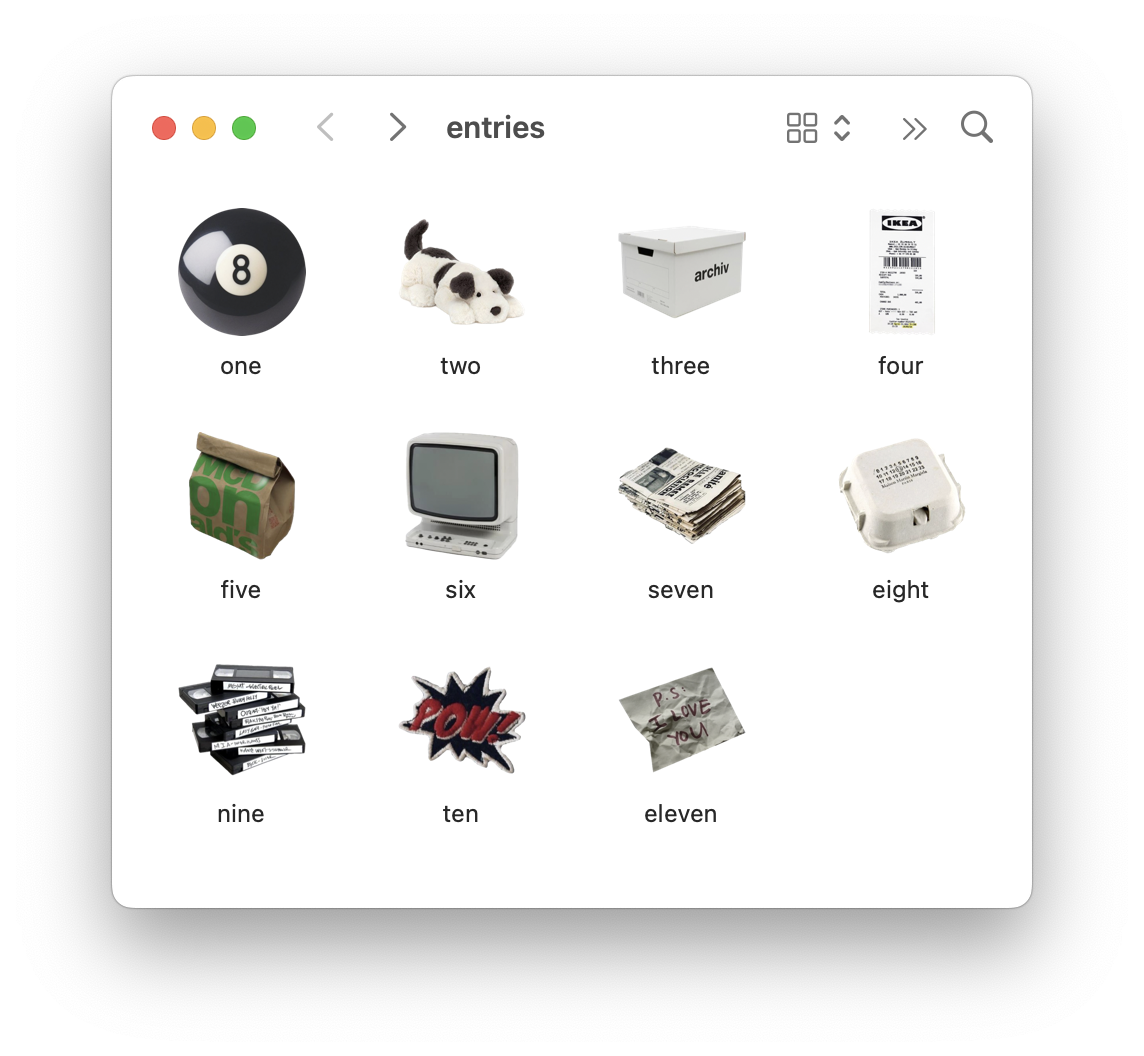
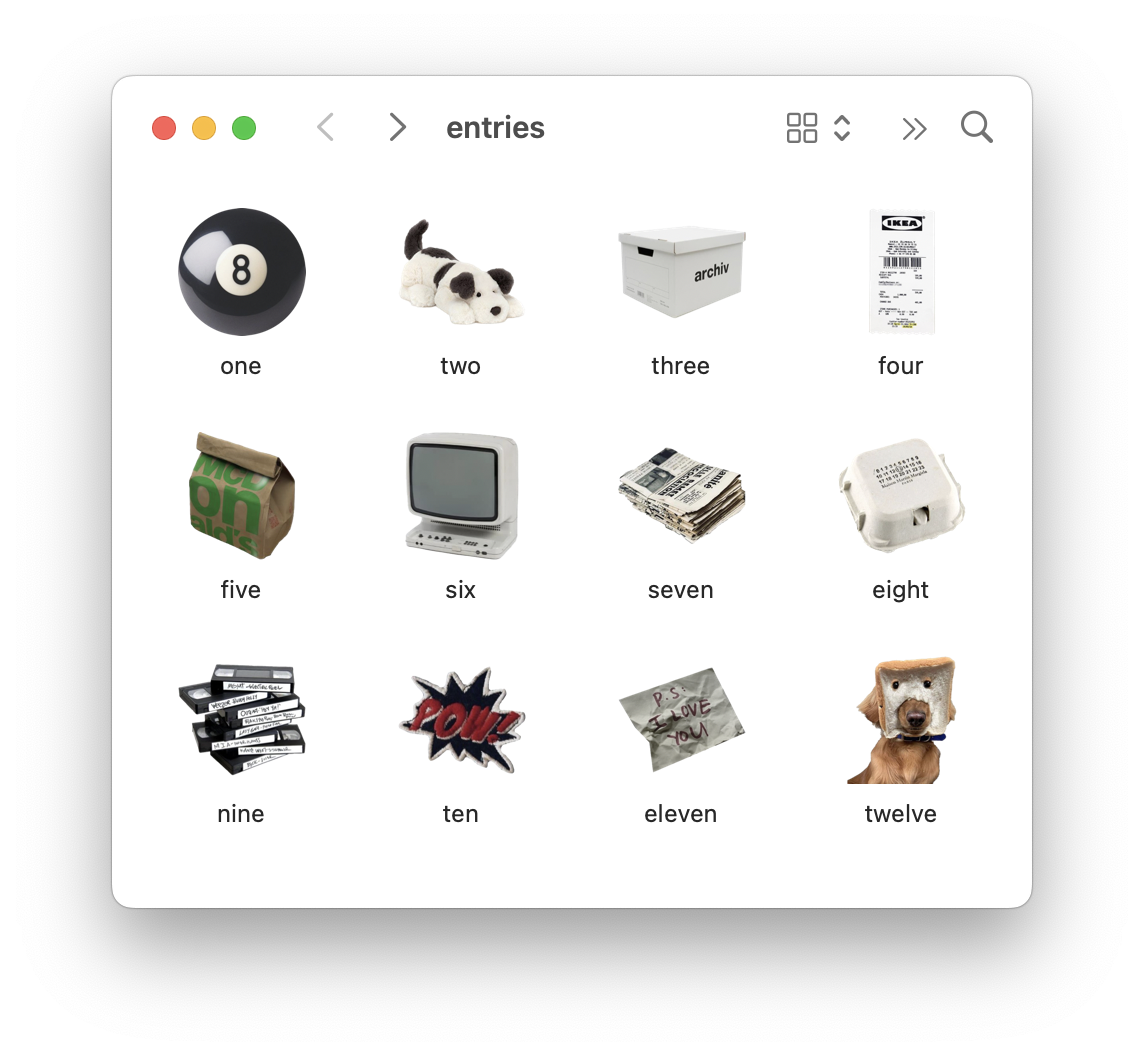
edit

Changed region(s): [[0.7343, 0.625, 0.8566, 0.7812]]

diff --git a/index.html b/index.html
@@ -26,6 +26,26 @@
                 <img src="imgs/entry4.png">
             <a href="entries/entry5/index.html">
                 <img src="imgs/entry5.png">
+            <a href="entries/entry6/index.html">
+                <img src="imgs/entry6.png">
+            </a>
+            <a href="entries/entry7/index.html">
+                <img src="imgs/entry7.png">
+            </a>
+            <a href="entries/entry8/index.html">
+                <img src="imgs/entry8.png">
+            </a>
+            <a href="entries/entry9/index.html">
+                <img src="imgs/entry9.png">
+            </a>
+            <a href="entries/entry10/index.html">
+                <img src="imgs/entry10.png">
+            </a>
+            <a href="entries/entry11/index.html">
+                <img src="imgs/entry11.png">
+            </a>
+            <a href="entries/entry12/index.html">
+                <img src="imgs/entry12.png">
             </a>
     </div>
     <div><img src="imgs/entriesicon.png" class="entries-icon"></div>

diff --git a/style.css b/style.css
@@ -92,3 +92,34 @@ body {
     width: 64px; 
     height: auto; 
 }
+.entries-buttons a:nth-child(6) {
+    margin-left: 34px;
+    margin-top: 147px;
+}
+.entries-buttons a:nth-child(6) img {
+    width: 64px; 
+    height: auto; 
+}
+.entries-buttons a:nth-child(7) {
+    margin-left: 33px;
+    margin-top: 155px;
+}.entries-buttons a:nth-child(8) {
+    margin-left: 27px;
+    margin-top: 150px;
+}.entries-buttons a:nth-child(9) {
+    margin-left: -474px;
+    margin-top: 277px;
+}.entries-buttons a:nth-child(10) {
+    margin-left: 27px;
+    margin-top: 279px;
+}.entries-buttons a:nth-child(11) {
+    margin-left: 27px;
+    margin-top: 280px;
+}.entries-buttons a:nth-child(12) {
+    margin-left: 32px;
+    margin-top: 272px;
+}
+.entries-buttons a:nth-child(12) img {
+    width: 64px; 
+    height: auto; 
+}
